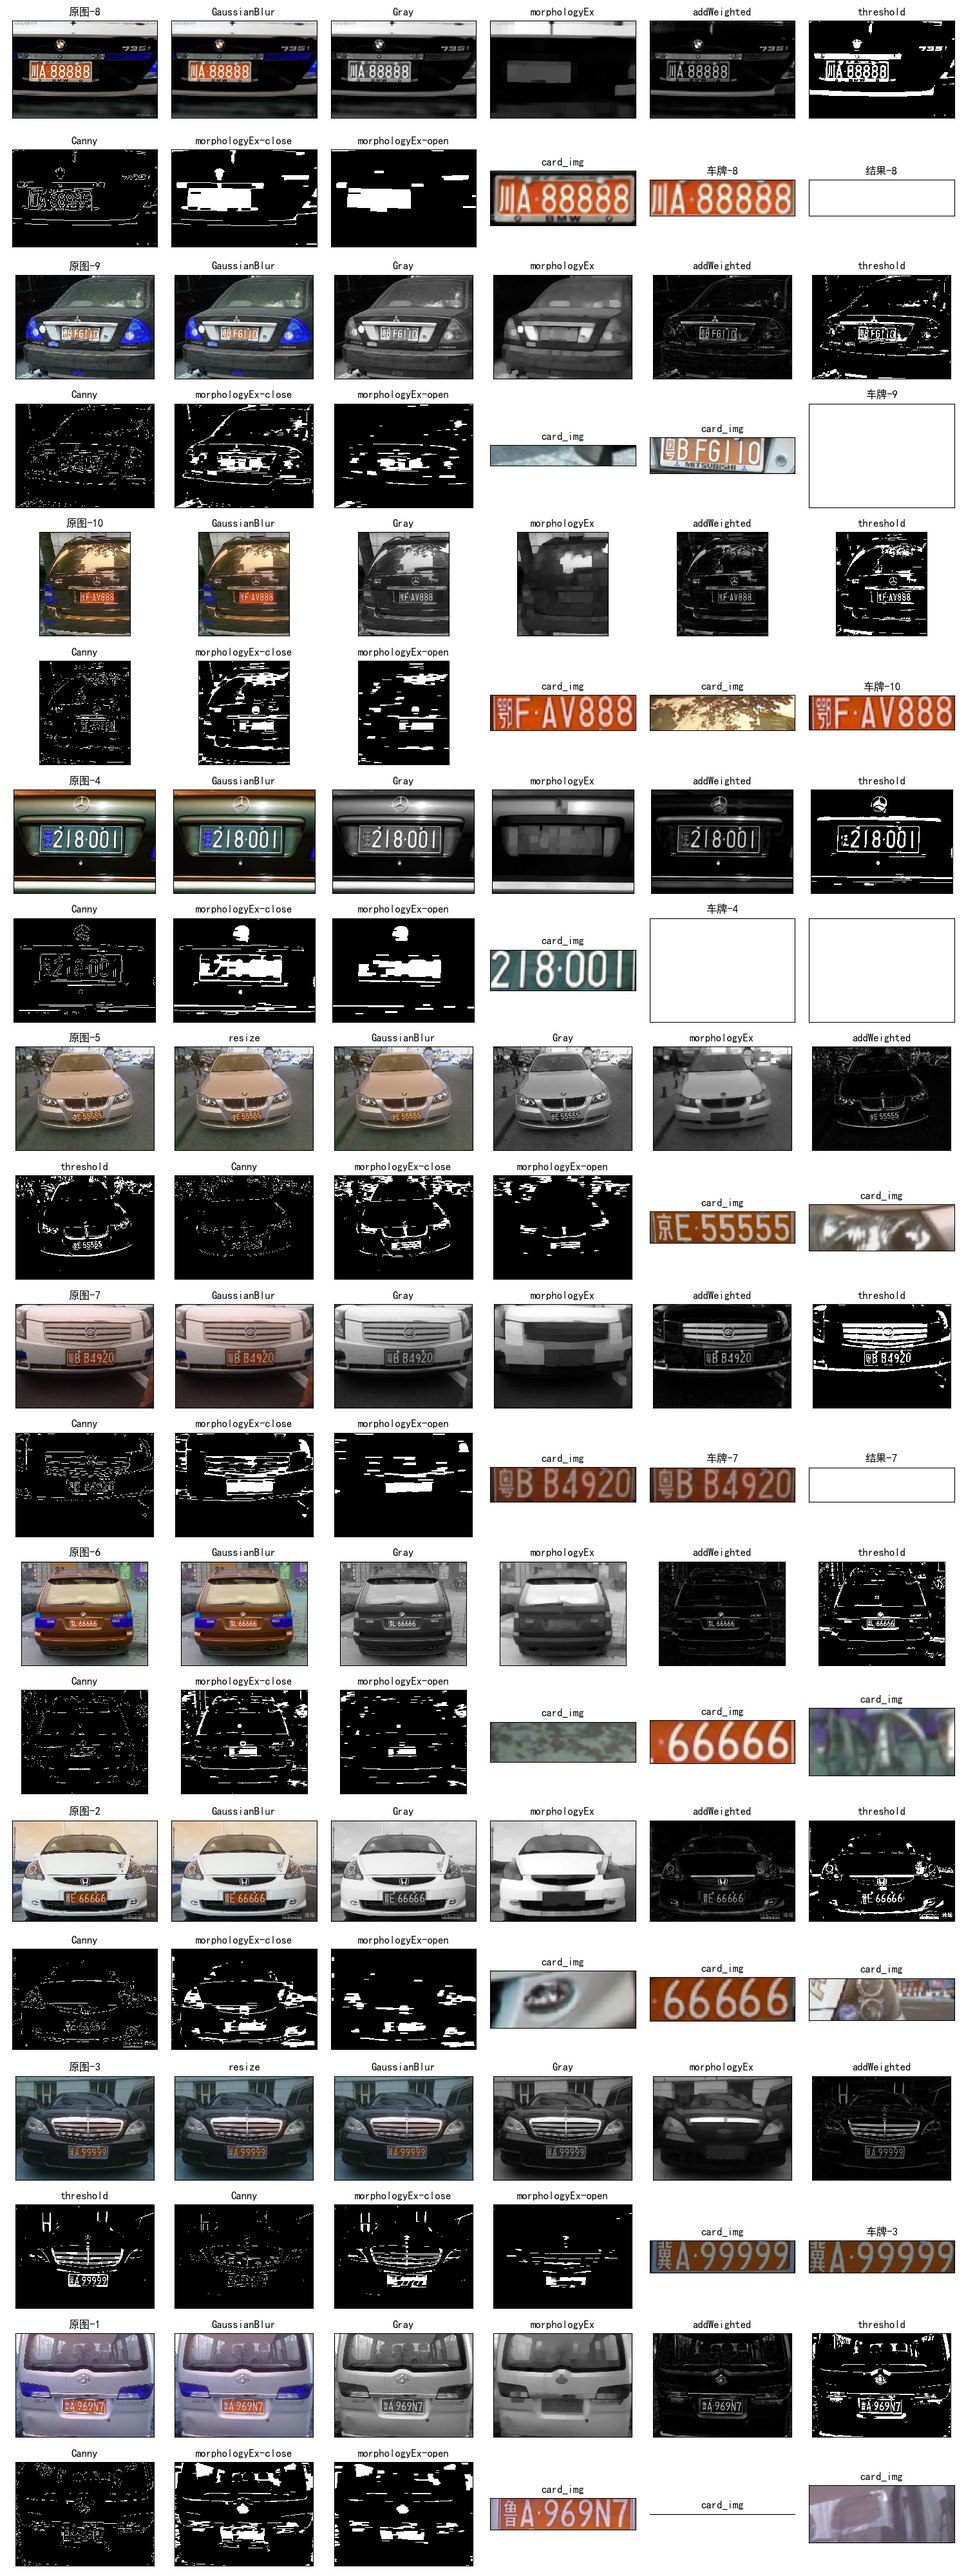
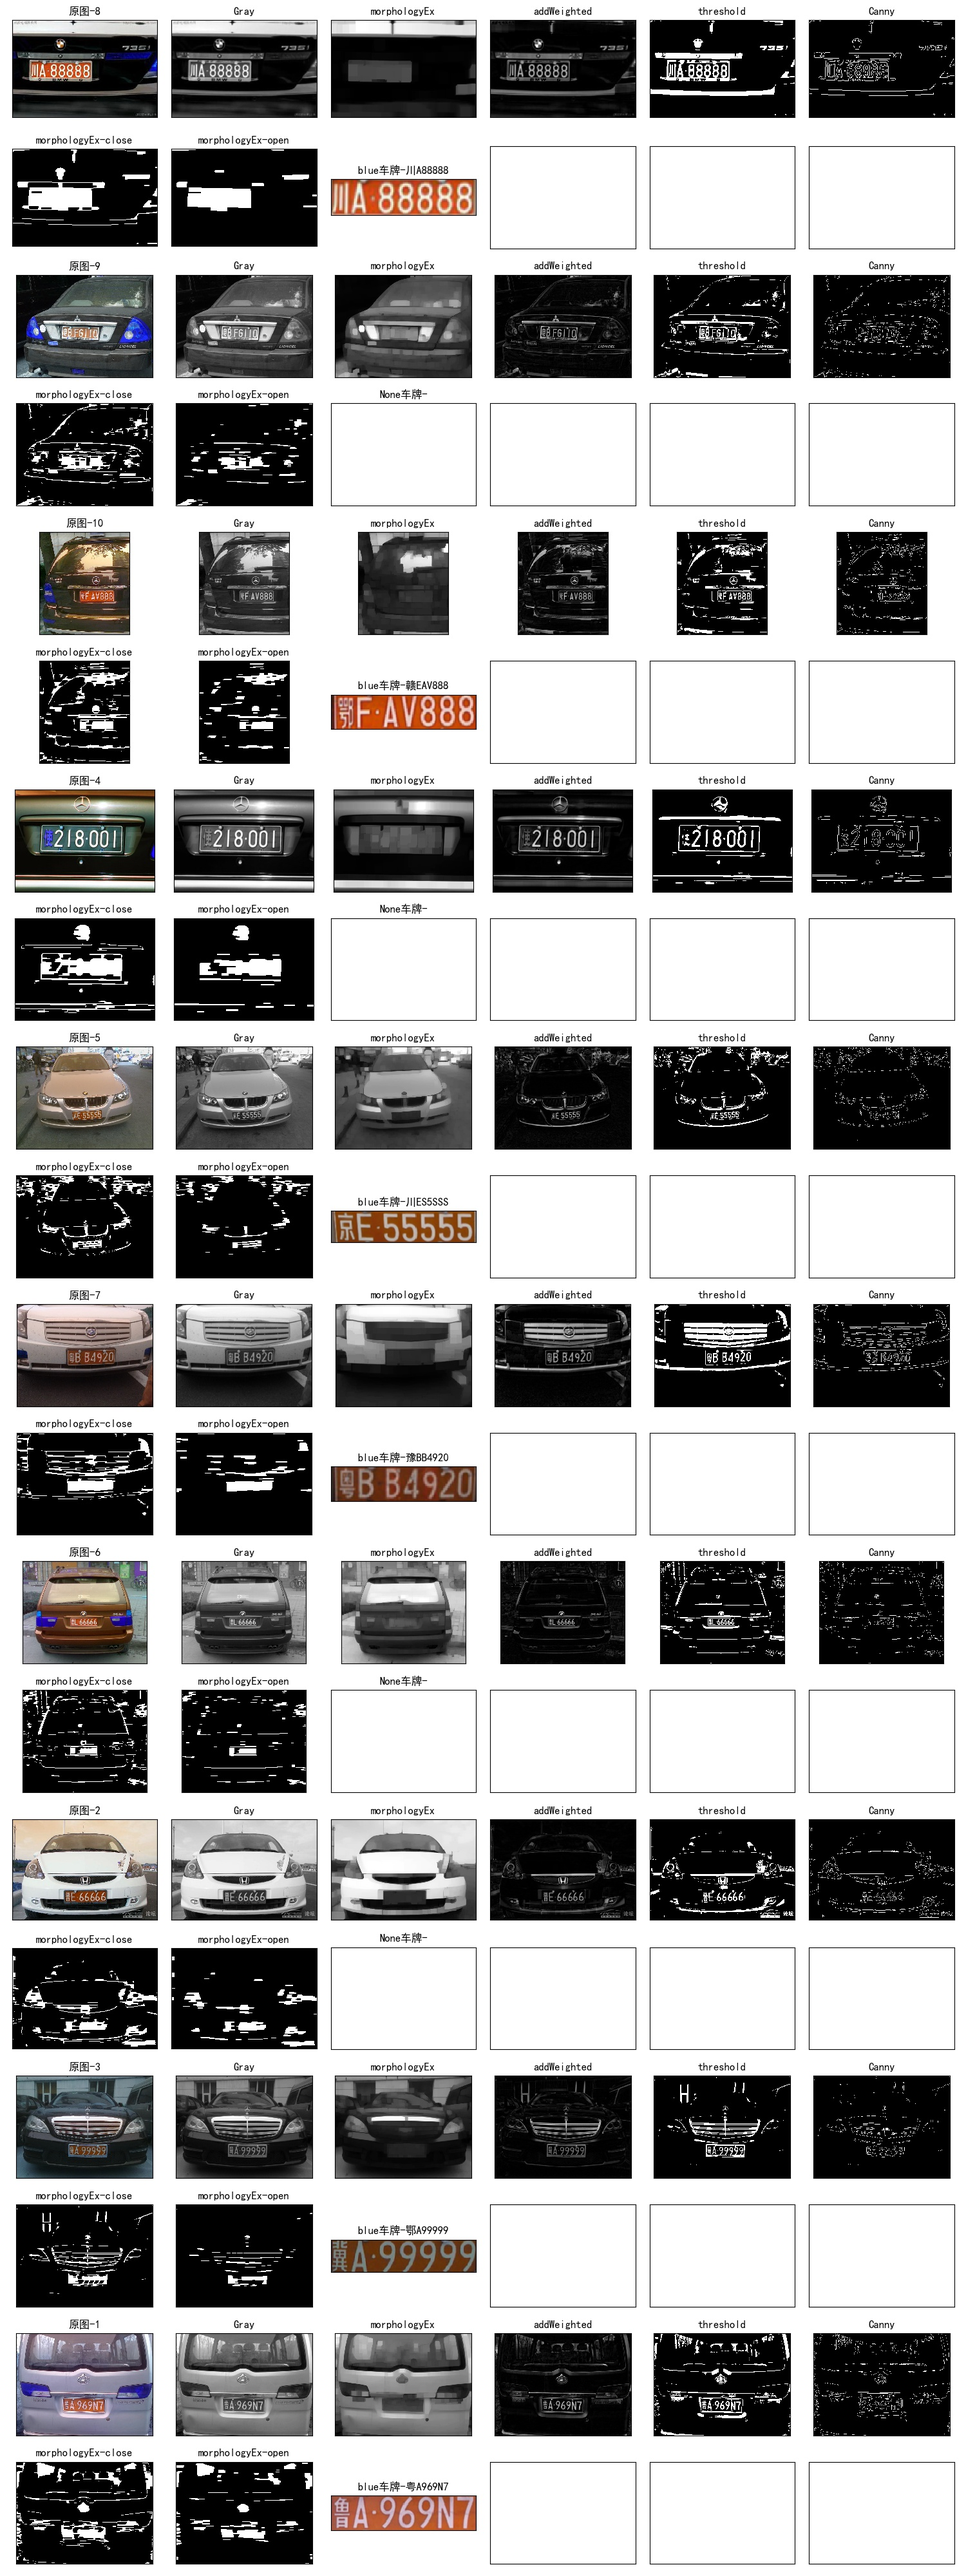
plate2

diff --git a/common/cvsvmcm.py b/common/cvsvmcm.py
@@ -330,14 +330,14 @@ class CardPredictor:
         if pic_width > MAX_WIDTH:
             resize_rate = MAX_WIDTH / pic_width
             img = cv2.resize(img, (MAX_WIDTH, int(pic_hight * resize_rate)), interpolation=cv2.INTER_AREA)
-            opencvcm.save_tmp(img, func_key, "resize", tmp_path, tmp_key, img_list, title_list)
+            #opencvcm.save_tmp(img, func_key, "resize", tmp_path, tmp_key, img_list, title_list)
 
         blur = self.cfg["blur"]
         # 高斯去噪
         if blur > 0:
             # 图片分辨率调整
             img = cv2.GaussianBlur(img, (blur, blur), 0)
-            opencvcm.save_tmp(img, func_key, "GaussianBlur", tmp_path, tmp_key, img_list, title_list)
+            #opencvcm.save_tmp(img, func_key, "GaussianBlur", tmp_path, tmp_key, img_list, title_list)
 
         oldimg = img
         img = cv2.cvtColor(img, cv2.COLOR_BGR2GRAY)
@@ -427,7 +427,7 @@ class CardPredictor:
                 point_limit(left_point)
 
                 card_img = dst[int(left_point[1]):int(heigth_point[1]), int(left_point[0]):int(new_right_point[0])]
-                opencvcm.save_tmp(card_img, func_key, "card_img", tmp_path, tmp_key, img_list, title_list)
+                #opencvcm.save_tmp(card_img, func_key, "card_img", tmp_path, tmp_key, img_list, title_list)
 
                 card_imgs.append(card_img)
             # cv2.imshow("card", card_img)
@@ -443,7 +443,7 @@ class CardPredictor:
                 point_limit(heigth_point)
                 point_limit(new_left_point)
                 card_img = dst[int(right_point[1]):int(heigth_point[1]), int(new_left_point[0]):int(right_point[0])]
-                opencvcm.save_tmp(card_img, func_key, "card_img", tmp_path, tmp_key, img_list, title_list)
+                #opencvcm.save_tmp(card_img, func_key, "card_img", tmp_path, tmp_key, img_list, title_list)
 
                 card_imgs.append(card_img)
                 # cv2.imshow("card", card_img)

diff --git a/cv_img_plate2.py b/cv_img_plate2.py
@@ -40,20 +40,8 @@ for path in img_path:
     logcm.print_info("%s --> %s" % (path, str(r)))
 
     img_list.append(roi)
-    title_list.append('车牌-%s' % filename)
-
-    if roi is not None:
-        result_img = roi.copy()
-        result_img = cv2.cvtColor(result_img, cv2.COLOR_BGR2GRAY)
-        result_img.fill(255)
-        result_img = cv2.cvtColor(result_img, cv2.COLOR_GRAY2BGR)
-
-        # 照片/添加的文字/左上角坐标/字体/字体大小/颜色/字体粗细
-        txt = "".join(r)
-        cv2.putText(result_img, txt, (0, 0), cv2.FONT_HERSHEY_PLAIN, 2.0, (200, 0, 0), 2, cv2.LINE_AA)
-
-        img_list.append(result_img)
-        title_list.append('结果-%s' % filename)
+    txt = "".join(r)
+    title_list.append('%s车牌-%s' % (color, txt))
 
     img_matrix.append(img_list)
     title_matrix.append(title_list)

diff --git a/common/filecm.py b/common/filecm.py
@@ -101,19 +101,19 @@ def append_csv(csv_path, data_list):
     return None
 
 
-def exists(path, file_name):
+def exists(path_check, file_name):
     """
     判断本地文件是否存在
-    @param path: 文件路径
+    @param path_check: 文件路径
     @param file_name: 文件名
     @return: True/False
     """
 
     # 本地文件路径如果不存在，返回False
-    if not os.path.exists(path):
+    if not os.path.exists(path_check):
         return False
     # 文件完整路径
-    file_path = os.path.join(path, file_name)
+    file_path = os.path.join(path_check, file_name)
     return os.path.exists(file_path)
 
 
